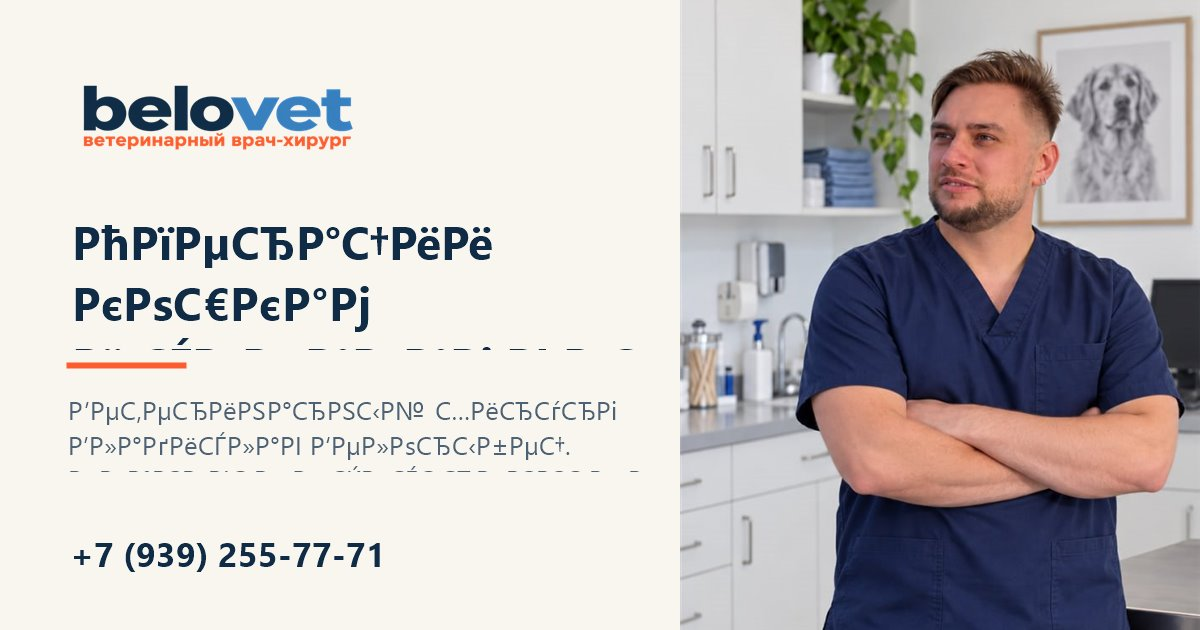
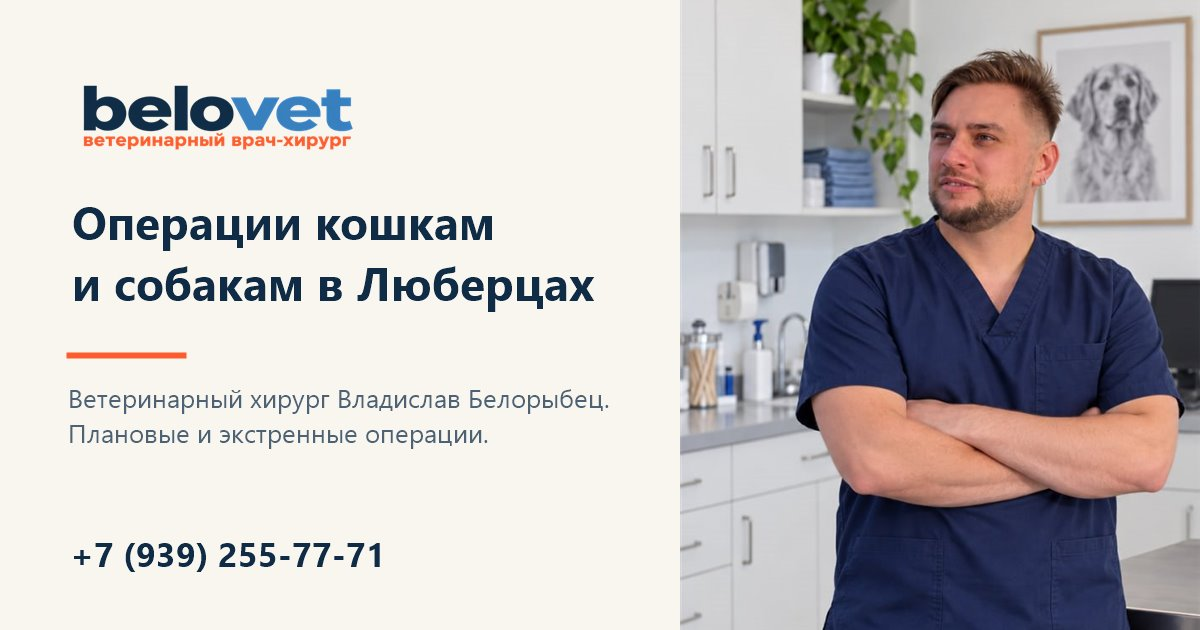
SEO: исправлена кодировка картинки-превью, статус в отчёте аудита

Changed region(s): [[0.0617, 0.3317, 0.4933, 0.5429], [0.0617, 0.5429, 0.5242, 0.7238]]

diff --git a/brand/seo-audit.md b/brand/seo-audit.md
@@ -3,6 +3,20 @@
 Проверено: 88 страниц (главная, privacy, 79 операций, блог: индекс + 6 статей), robots/sitemap, заголовки ответа сервера, вес и скорость.
 Сейчас сайт — прототип на github.io. Индексация закрыта специально, и это правильно до запуска.
 
+## Исправлено 23.10.2026
+- Title операций: «<операция> в Люберцах — цена, восстановление | beloVET», не длиннее 70 знаков (было в среднем 93). В блоге тоже до 70.
+- Description обрезается по слову до 160 знаков (операции, блог).
+- Open Graph и картинка-превью 1200×630 (assets/og-image.jpg) на всех страницах; twitter:card.
+- Главная: canonical и JSON-LD VeterinaryCare + Person + WebSite (адрес, телефон, круглосуточная экстренная линия, район обслуживания). Координаты и ссылку на Яндекс добавить, когда будут точные.
+- privacy.html: description и canonical. BreadcrumbList на страницах операций.
+- 404.html с поиском, блогом и экстренной заявкой.
+- Обложка статей: logo-mark.png 440 КБ заменена на cover-mark.jpg 24 КБ.
+- width/height у картинок главной, doctor-notes и логотип в подвале грузятся лениво, фото в первом экране с fetchpriority.
+- apple-touch-icon, site.webmanifest, theme-color; Sitemap в robots.txt.
+- Блок <head> главной и privacy собирается в tools/build.js между метками SEO:START/END — при переезде на belovet.ru достаточно поменять SITE.
+
+Осталось: пункты 1–2, 6–8, 12–13, 16 и «Желательно».
+
 ## Что уже хорошо
 - Битых внутренних ссылок нет. На каждой странице один H1, у всех картинок есть alt.
 - Разметка JSON-LD на статьях и операциях валидна: MedicalWebPage + FAQPage, BlogPosting + BreadcrumbList.
